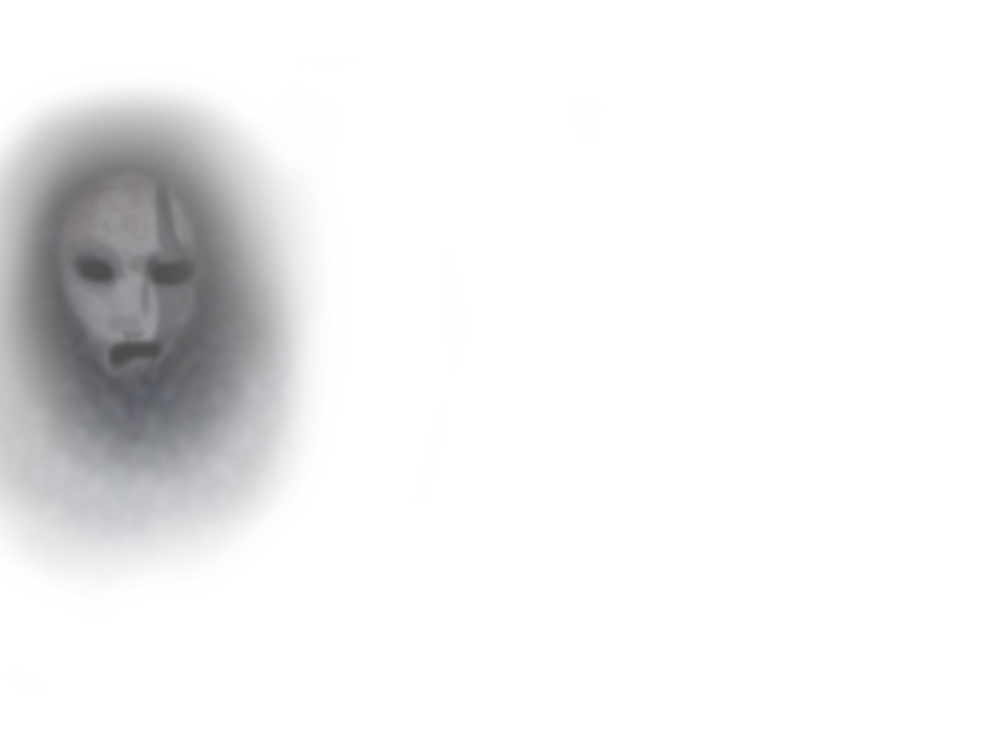
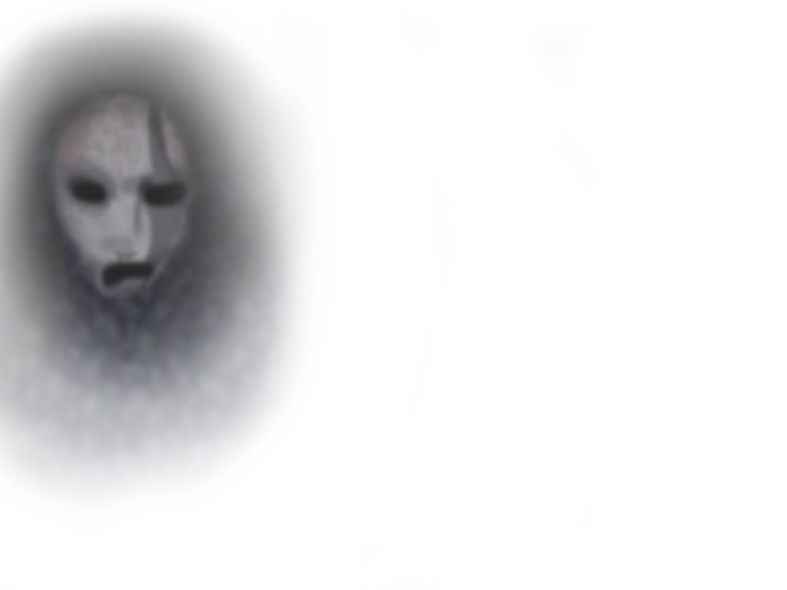
Second

Changed region(s): [[0.0, 0.0305, 0.3964, 0.8237]]

diff --git a/spirit-selfie/index.html b/spirit-selfie/index.html
@@ -1,4 +1,4 @@
-<!doctype html>
+<!Doctype html>
 <html class="no-js" lang="en" dir="ltr">
     <head>
         <meta charset="utf-8">
@@ -9,27 +9,39 @@
         <link rel="stylesheet" href="css/app.css">
         <link href="//netdna.bootstrapcdn.com/font-awesome/3.2.1/css/font-awesome.css" rel="stylesheet">
         <!-- <script language="javascript" type="text/javascript" src="libraries/p5.js"></script> -->
+        <style>
+          #images {
+            /*background: url("../img/filters/ghost01.png");*/
+            width: 100%;
+            height: 100%;
+            max-width: 787px;
+            max-height: 561px;
+            min-width: 250px;
+            position: absolute;
+          }
+        </style>
     </head>
 
-<body>
+<body onload="return randomSpirits">
 
   <div class="callout large primary">
     <div class="row column text-center">
-      <h1>#Spirit Selfie</h1>
+      <h1>#Spirit Camera</h1>
       <!-- <h2 class="subheader"></h2> -->
       <p>
-      Take a picture and see the spirits around you.<br/>
-      For this to work, open in mozilla firefox browser and allow the page to access your webcam.
+      Capture the spirits around you.
       </p>
     </div>
   </div>
 
   <div class="row">
-    <div class="medium-12 columns">
-      <canvas id="canvas">
-      </canvas>
+    <div class="medium-3 columns">
+      <p>For this to work, open in browser mozilla firefox and allow the page to access your webcam.</p>
+    </div>
+    <div class="medium-9 columns">
+      <canvas id="canvas"></canvas>
       <div class="output" id="hidden">
-        <div class="images"></div>
+        <div id="images"></div>
           <img id="photo" alt="Image Captured.">
       </div>
       <div class="blog-post">
@@ -41,12 +53,19 @@
     </div>
   </div>
 
+  <footer><div class="row column text-center">vicosmic.github.com</div></footer>
+
   <script src="https://code.jquery.com/jquery-2.1.4.min.js"></script>
   <script src="js/vendor/jquery.js"></script>
   <script src="js/vendor/foundation.js"></script>
   <script src="js/app.js"></script>
   <!-- <script language="javascript" type="text/javascript" src="sketch.js"></script> -->
-
+  <script type="text/javascript">
+    $(document).ready(function(){
+      var images = ['ghost01','ghost02','ghost03','ghost04','ghost05'];
+      $("#images").css("background-image", "url(img/filters/" + images[Math.floor(Math.random() * images.length)] + ".png)");
+    });
+  </script>
 </body>
 
 </html>

diff --git a/spirit-selfie/css/foundation.css b/spirit-selfie/css/foundation.css
@@ -388,7 +388,8 @@ body {
   -moz-osx-font-smoothing: grayscale; }
 
 img {
-  max-width: 100%;
+  width: 100%;
+  max-width: 787px;
   height: auto;
   -ms-interpolation-mode: bicubic;
   display: inline-block;
@@ -434,7 +435,10 @@ button {
 .row {
   max-width: 75rem;
   margin-left: auto;
-  margin-right: auto; }
+  margin-right: auto;
+  margin-top: 30px;
+  margin-bottom: 60px;
+}
   .row::before, .row::after {
     content: ' ';
     display: table; }
@@ -4153,3 +4157,16 @@ table.hover tr:nth-of-type(even):hover {
 .long-delay {
   -webkit-animation-delay: 700ms !important;
           animation-delay: 700ms !important; }
+
+footer {
+  border-top: 2px solid rgb(224, 147, 47);
+  background-image: url(../img/background-image.jpg);
+  width: 100%;
+  position: fixed;
+  bottom: 0px;
+  height: inherit;
+  max-height: 80px;
+  min-height: 25px;
+  color: white;
+  margin: 0 auto;
+}

diff --git a/spirit-selfie/css/app.css b/spirit-selfie/css/app.css
@@ -14,7 +14,7 @@ body {
   display: none;
 }
 .camera {
-  width:1000px;
+  width:787px;
   display: inline-block;
 }
 #hidden {
@@ -50,14 +50,10 @@ body {
   width: 100%;
 }
 
-.photoOne {
-  /*filter: url(../img/filters/ghost01.svg);*/
+#photo {
+  width: 787px;
 }
 
-.images {
-  background: url("../img/filters/ghost01.png");
-  width: 1000px;
-  height: 751px;
-  opacity: 0.75;
-  position: absolute;
+.photoOne {
+  /*filter: url(../img/filters/ghost01.svg);*/
 }

diff --git a/spirit-selfie/js/app.js b/spirit-selfie/js/app.js
@@ -1,7 +1,7 @@
 (function() {
 
-  var width = 1000;    // We will scale the photo width to this
-  var height = 0;     // This will be computed based on the input stream
+  var width = 787;    // We will scale the photo width to this
+  var height = 561;     // This will be computed based on the input stream
 
   var streaming = false;
 
